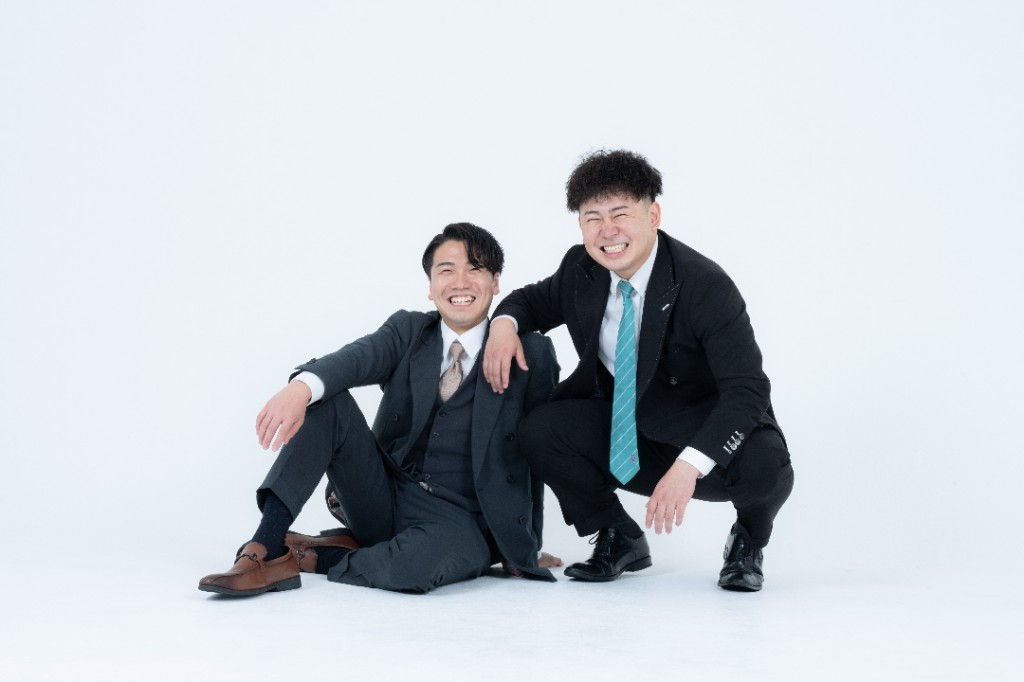
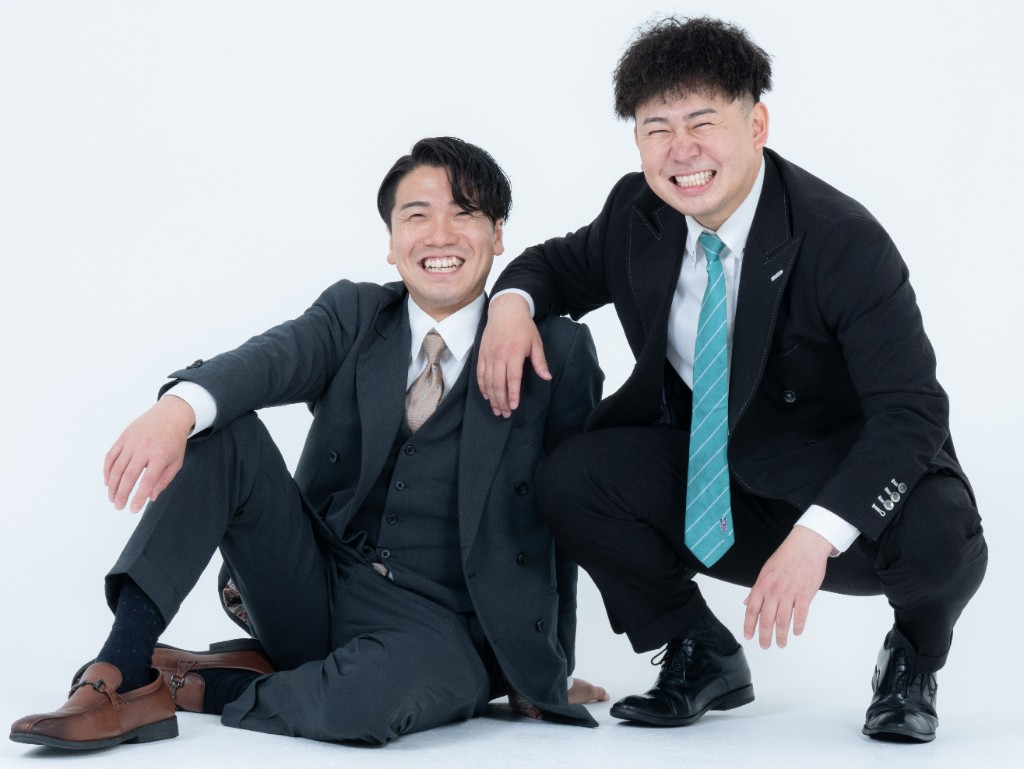
けーさん宣材とファーストビュー画像を差し替え
講師写真を顔寄りの宣材に更新し、ヒーロー画像も高画質版に置き換え。

diff --git a/src/components/sections/HeroSection.tsx b/src/components/sections/HeroSection.tsx
@@ -110,7 +110,7 @@ export function HeroSection() {
                   fill
                   priority
                   sizes="(max-width: 768px) 100vw, 50vw"
-                  className="scale-125 object-cover object-[center_28%] sm:scale-[1.35] sm:object-[center_32%]"
+                  className="scale-110 object-cover object-[center_35%] sm:scale-[1.2] sm:object-[center_38%]"
                 />
               </div>
             </div>

diff --git a/src/components/sections/InstructorsSection.tsx b/src/components/sections/InstructorsSection.tsx
@@ -36,7 +36,7 @@ export function InstructorsSection() {
                   <div
                     className={
                       instructor.name === "けーさん"
-                        ? "overflow-hidden rounded-full [&_img]:!scale-[2.35] [&_img]:origin-[center_10%]"
+                        ? "overflow-hidden rounded-full [&_img]:!scale-[1.55] [&_img]:origin-[center_18%]"
                         : "overflow-hidden rounded-full"
                     }
                   >

diff --git a/src/data/content.ts b/src/data/content.ts
@@ -223,7 +223,7 @@ export const instructors = [
     role: "運営・講師",
     description: "サラリーマンYouTuber。けーさんとたろーチャンネル運営。編集チーム統括。",
     image: "/images/instructors/ke.png",
-    objectPosition: "center 12%",
+    objectPosition: "center 20%",
   },
   {
     name: "みなと",